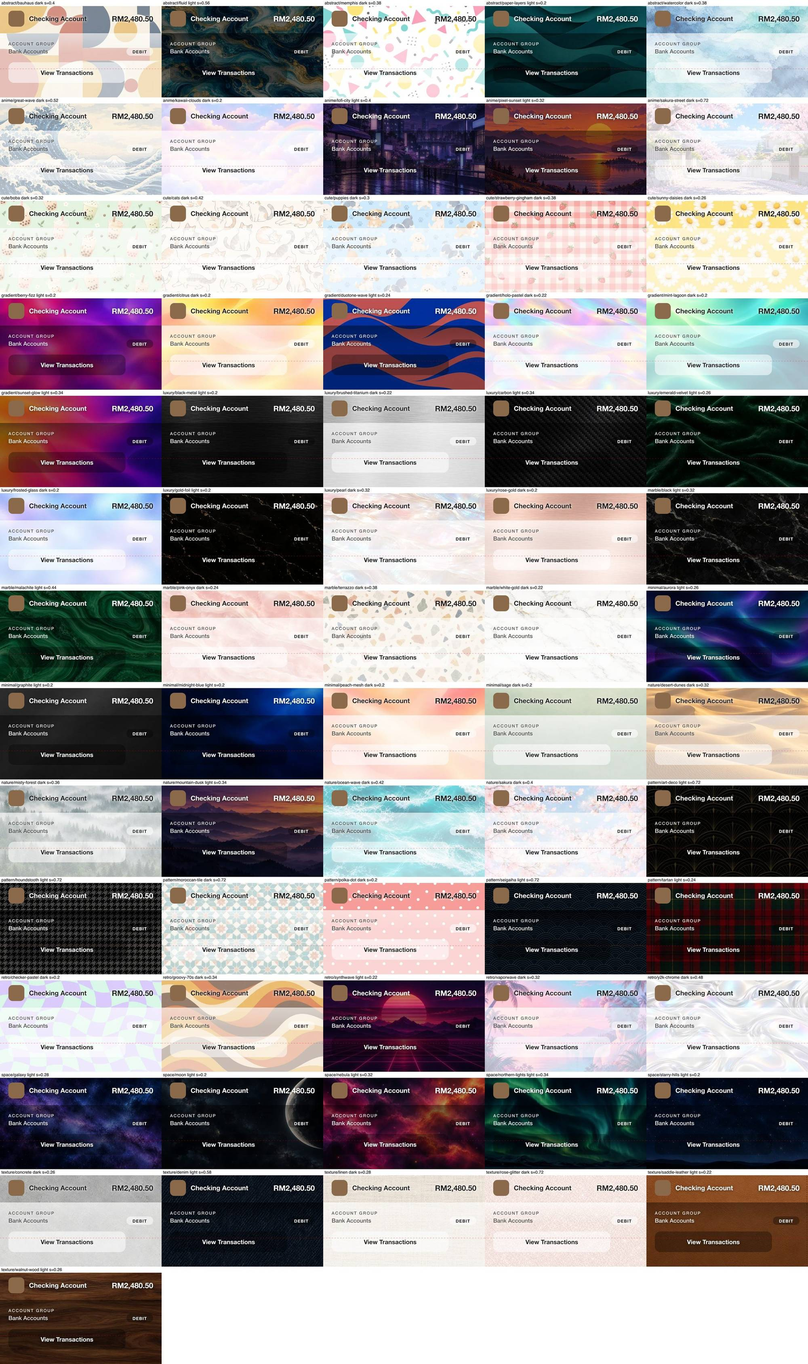
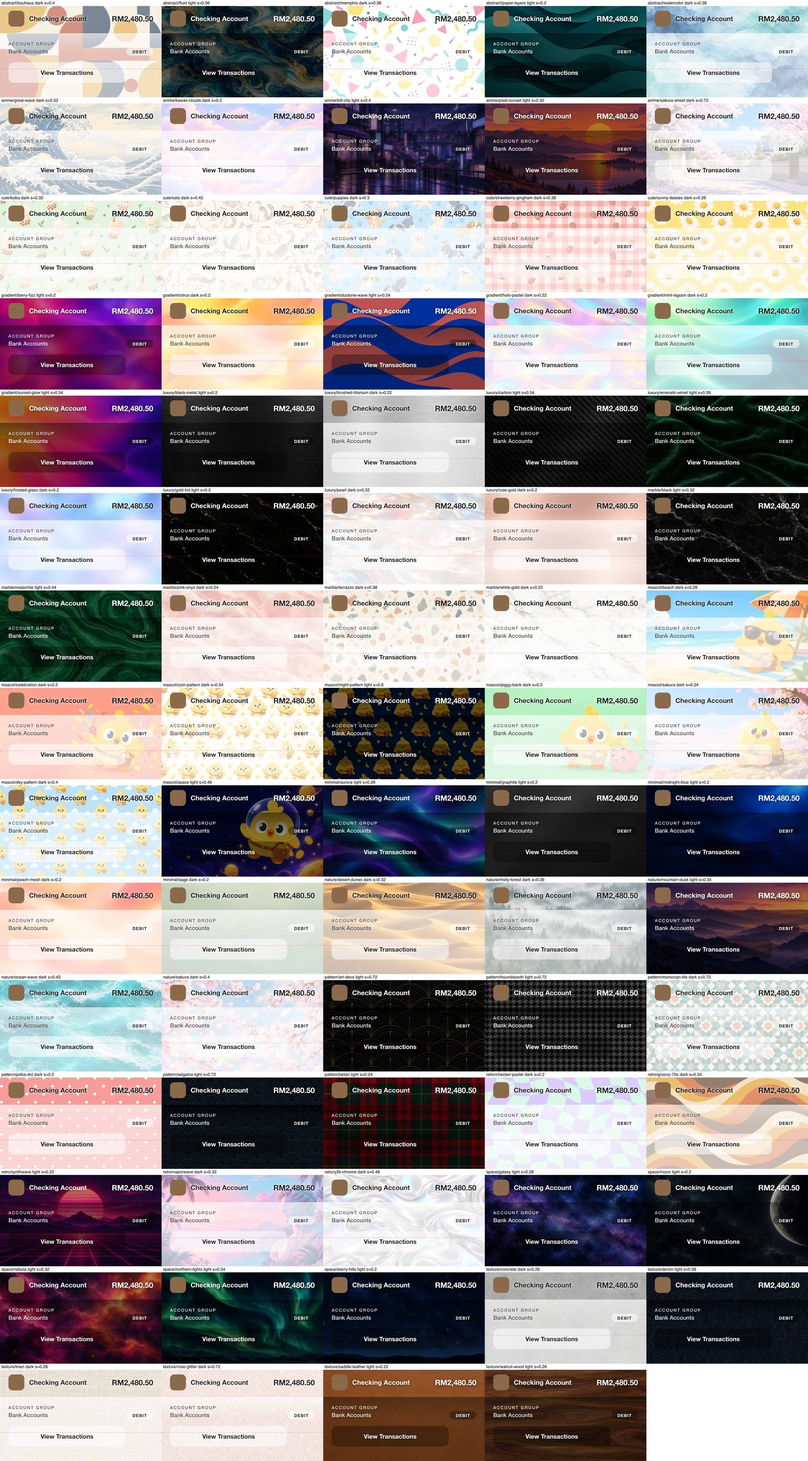
Add mascot card designs starring the coin-purse chick
Eight designs in a new Mascot genre that leads the picker: three
repeating patterns and five scenes (beach, space, piggy bank, sakura,
celebration). Generated with two mascot poses as character references
so the chick stays on-model; scenes keep it below the top row so it
never sits under text. 74 designs in thirteen genres, 4.1 MB.

diff --git a/apps/mobile/constants/cardDesigns.generated.ts b/apps/mobile/constants/cardDesigns.generated.ts
@@ -242,6 +242,62 @@ export const CARD_DESIGN_TEMPLATES: readonly CardDesignTemplate[] = [
     scrim: 0.22,
   },
   {
+    id: 'mascot/beach',
+    genre: 'mascot',
+    source: require('../assets/card-designs/mascot/beach.webp'),
+    textTone: 'dark',
+    scrim: 0.28,
+  },
+  {
+    id: 'mascot/celebration',
+    genre: 'mascot',
+    source: require('../assets/card-designs/mascot/celebration.webp'),
+    textTone: 'dark',
+    scrim: 0.2,
+  },
+  {
+    id: 'mascot/coin-pattern',
+    genre: 'mascot',
+    source: require('../assets/card-designs/mascot/coin-pattern.webp'),
+    textTone: 'dark',
+    scrim: 0.54,
+  },
+  {
+    id: 'mascot/night-pattern',
+    genre: 'mascot',
+    source: require('../assets/card-designs/mascot/night-pattern.webp'),
+    textTone: 'light',
+    scrim: 0.6,
+  },
+  {
+    id: 'mascot/piggy-bank',
+    genre: 'mascot',
+    source: require('../assets/card-designs/mascot/piggy-bank.webp'),
+    textTone: 'dark',
+    scrim: 0.2,
+  },
+  {
+    id: 'mascot/sakura',
+    genre: 'mascot',
+    source: require('../assets/card-designs/mascot/sakura.webp'),
+    textTone: 'dark',
+    scrim: 0.24,
+  },
+  {
+    id: 'mascot/sky-pattern',
+    genre: 'mascot',
+    source: require('../assets/card-designs/mascot/sky-pattern.webp'),
+    textTone: 'dark',
+    scrim: 0.4,
+  },
+  {
+    id: 'mascot/space',
+    genre: 'mascot',
+    source: require('../assets/card-designs/mascot/space.webp'),
+    textTone: 'light',
+    scrim: 0.46,
+  },
+  {
     id: 'minimal/aurora',
     genre: 'minimal',
     source: require('../assets/card-designs/minimal/aurora.webp'),

diff --git a/apps/mobile/lib/i18n/locales/hi.ts b/apps/mobile/lib/i18n/locales/hi.ts
@@ -1772,6 +1772,7 @@ const hi = {
       text_light: 'हल्का टेक्स्ट',
       text_dark: 'गहरा टेक्स्ट',
       save: 'डिज़ाइन सेव करें',
+      genre_mascot: 'मैस्कॉट',
       genre_minimal: 'मिनिमल',
       genre_gradient: 'ग्रेडिएंट',
       genre_texture: 'टेक्सचर',

diff --git a/apps/mobile/lib/i18n/locales/th.ts b/apps/mobile/lib/i18n/locales/th.ts
@@ -1752,6 +1752,7 @@ const th = {
       text_light: 'ตัวอักษรสีอ่อน',
       text_dark: 'ตัวอักษรสีเข้ม',
       save: 'บันทึกดีไซน์',
+      genre_mascot: 'มาสคอต',
       genre_minimal: 'มินิมอล',
       genre_gradient: 'ไล่สี',
       genre_texture: 'พื้นผิว',

diff --git a/apps/mobile/lib/i18n/locales/ru.ts b/apps/mobile/lib/i18n/locales/ru.ts
@@ -1785,6 +1785,7 @@ const ru = {
       text_light: 'Светлый текст',
       text_dark: 'Тёмный текст',
       save: 'Сохранить дизайн',
+      genre_mascot: 'Маскот',
       genre_minimal: 'Минимализм',
       genre_gradient: 'Градиент',
       genre_texture: 'Фактура',

diff --git a/apps/mobile/lib/i18n/locales/uk.ts b/apps/mobile/lib/i18n/locales/uk.ts
@@ -1779,6 +1779,7 @@ const uk = {
       text_light: 'Світлий текст',
       text_dark: 'Темний текст',
       save: 'Зберегти дизайн',
+      genre_mascot: 'Маскот',
       genre_minimal: 'Мінімалізм',
       genre_gradient: 'Градієнт',
       genre_texture: 'Фактура',

diff --git a/apps/mobile/constants/cardDesigns.ts b/apps/mobile/constants/cardDesigns.ts
@@ -20,6 +20,8 @@ export type CardTextTone = 'light' | 'dark';
 
 /** Template genres in display order. Folder names under assets/card-designs/. */
 export const CARD_DESIGN_GENRES = [
+  // The app's own coin-purse chick leads: no other app has these.
+  'mascot',
   'minimal',
   'gradient',
   'luxury',

diff --git a/apps/mobile/lib/i18n/locales/ja.ts b/apps/mobile/lib/i18n/locales/ja.ts
@@ -1772,6 +1772,7 @@ const ja = {
       text_light: '明るい文字',
       text_dark: '暗い文字',
       save: 'デザインを保存',
+      genre_mascot: 'マスコット',
       genre_minimal: 'ミニマル',
       genre_gradient: 'グラデーション',
       genre_texture: '素材感',

diff --git a/apps/mobile/lib/i18n/locales/ko.ts b/apps/mobile/lib/i18n/locales/ko.ts
@@ -1757,6 +1757,7 @@ const ko = {
       text_light: '밝은 글자',
       text_dark: '어두운 글자',
       save: '디자인 저장',
+      genre_mascot: '마스코트',
       genre_minimal: '미니멀',
       genre_gradient: '그라데이션',
       genre_texture: '질감',

diff --git a/apps/mobile/lib/i18n/locales/vi.ts b/apps/mobile/lib/i18n/locales/vi.ts
@@ -1768,6 +1768,7 @@ const vi = {
       text_light: 'Chữ sáng',
       text_dark: 'Chữ tối',
       save: 'Lưu thiết kế',
+      genre_mascot: 'Linh vật',
       genre_minimal: 'Tối giản',
       genre_gradient: 'Chuyển màu',
       genre_texture: 'Chất liệu',

diff --git a/apps/mobile/lib/i18n/locales/nl.ts b/apps/mobile/lib/i18n/locales/nl.ts
@@ -1796,6 +1796,7 @@ const nl = {
       text_light: 'Lichte tekst',
       text_dark: 'Donkere tekst',
       save: 'Ontwerp opslaan',
+      genre_mascot: 'Mascotte',
       genre_minimal: 'Minimalistisch',
       genre_gradient: 'Kleurverloop',
       genre_texture: 'Textuur',

diff --git a/apps/mobile/lib/i18n/locales/fil.ts b/apps/mobile/lib/i18n/locales/fil.ts
@@ -1803,6 +1803,7 @@ const fil = {
       text_light: 'Maliwanag na text',
       text_dark: 'Madilim na text',
       save: 'I-save ang disenyo',
+      genre_mascot: 'Mascot',
       genre_minimal: 'Minimal',
       genre_gradient: 'Gradient',
       genre_texture: 'Texture',

diff --git a/apps/mobile/lib/i18n/locales/fr.ts b/apps/mobile/lib/i18n/locales/fr.ts
@@ -1798,6 +1798,7 @@ const fr = {
       text_light: 'Texte clair',
       text_dark: 'Texte foncé',
       save: 'Enregistrer le design',
+      genre_mascot: 'Mascotte',
       genre_minimal: 'Minimaliste',
       genre_gradient: 'Dégradé',
       genre_texture: 'Texture',
